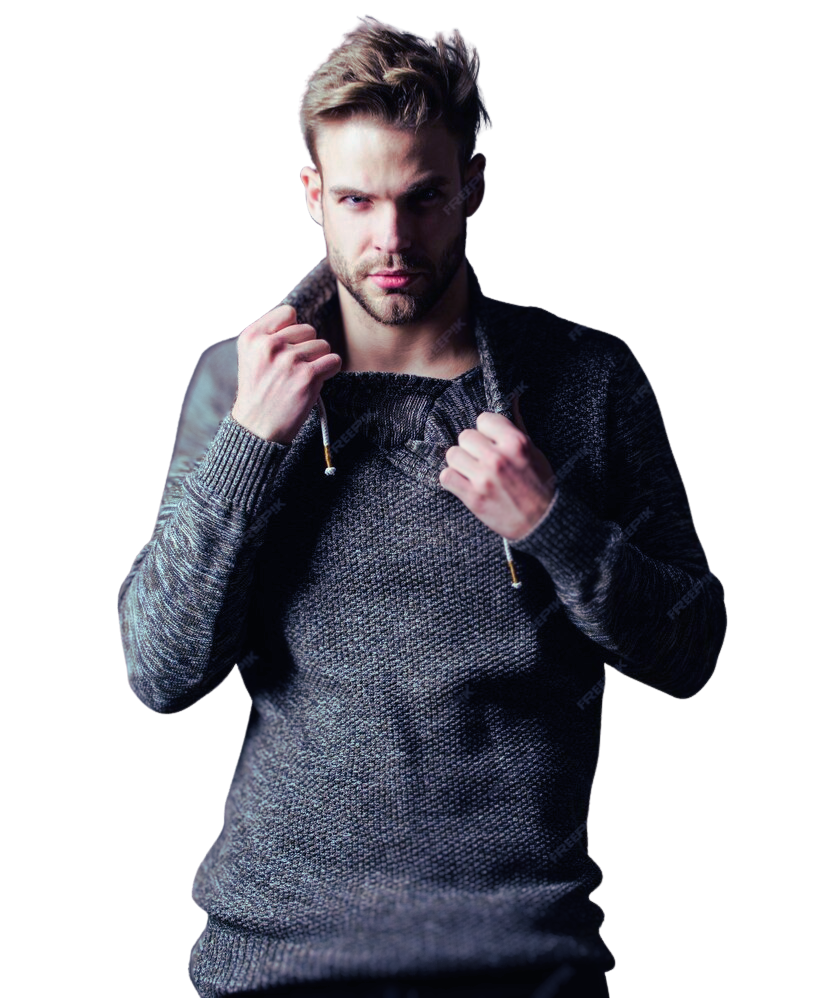
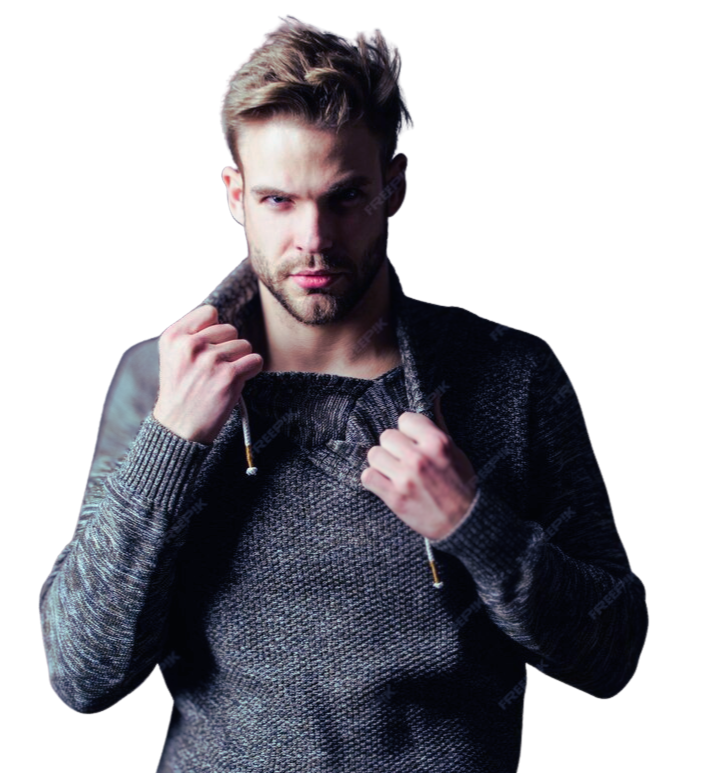
feat: update how-it-works page and hero image

diff --git a/frontend/src/pages/HowItWorks.tsx b/frontend/src/pages/HowItWorks.tsx
@@ -1,9 +1,73 @@
+// Import necessary modules
+import { useState, useEffect, useRef } from "react";
+import gsap from "gsap";
 import Header from "../components/Header";
+import howItWork from "../assets/images/how-it-work.png";
+
+interface PopupProps {
+  isVisible: boolean;
+  imageSrc: string;
+  onClose: () => void;
+}
+
+// Pop-up component
+const Popup = ({ isVisible, imageSrc, onClose }: PopupProps) => {
+  return (
+    <div
+      className={`fixed inset-0 bg-black bg-opacity-75 flex justify-center items-center ${
+        isVisible ? "block" : "hidden"
+      }`}
+    >
+      <div className="relative">
+        <img src={imageSrc} alt="Sequence Diagram Enlarged" className="w-4/5" />
+        <button
+          onClick={onClose}
+          className="absolute top-2 right-2 text-white bg-red-500 rounded-full p-2"
+        >
+          X
+        </button>
+      </div>
+    </div>
+  );
+};
 
 const HowItWorks = () => {
+  const [isPopupVisible, setPopupVisible] = useState(false);
+  const imageRef = useRef(null);
+
+  useEffect(() => {
+    gsap.fromTo(
+      imageRef.current,
+      { opacity: 0, scale: 0 },
+      { opacity: 1, scale: 1, duration: 2 }
+    );
+  }, []);
+
+  const handleImageClick = () => {
+    setPopupVisible(true);
+  };
+
+  const handleClosePopup = () => {
+    setPopupVisible(false);
+  };
+
   return (
     <div className="px-24 py-6 h-screen">
       <Header />
+      <div className="w-full flex justify-center items-center">
+        <img
+          ref={imageRef}
+          src={howItWork}
+          alt="Sequence Diagram"
+          className="w-3/5 cursor-pointer"
+          onClick={handleImageClick}
+        />
+      </div>
+      <Popup
+        isVisible={isPopupVisible}
+        imageSrc={howItWork}
+        onClose={handleClosePopup}
+      />
     </div>
   );
 };

diff --git a/frontend/src/components/Hero.tsx b/frontend/src/components/Hero.tsx
@@ -59,7 +59,7 @@ const Hero = () => {
           </button>
         </Link>
       </div>
-      <div>
+      <div className="w-5/6">
         <img
           ref={imageRef}
           src={hero}
